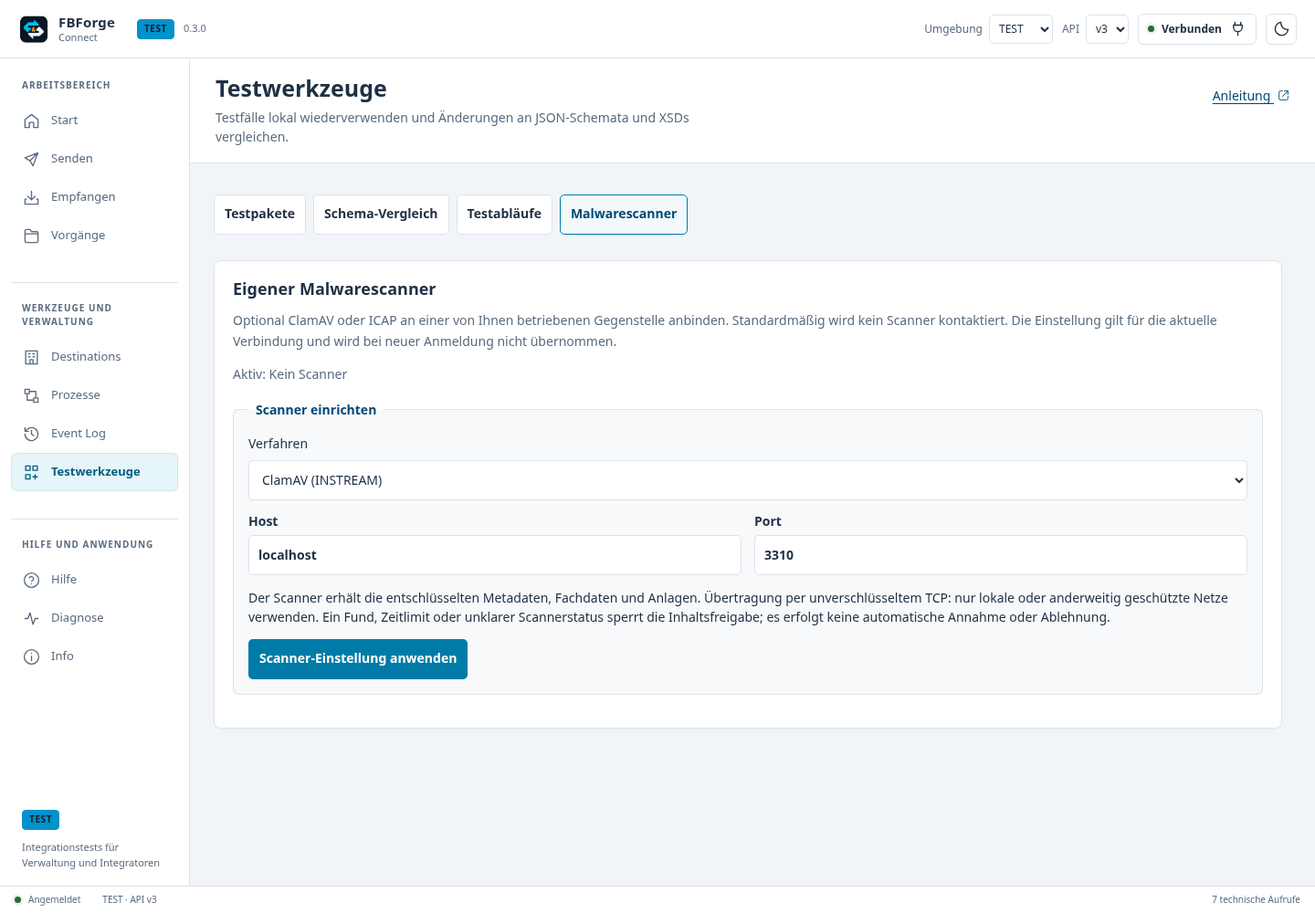
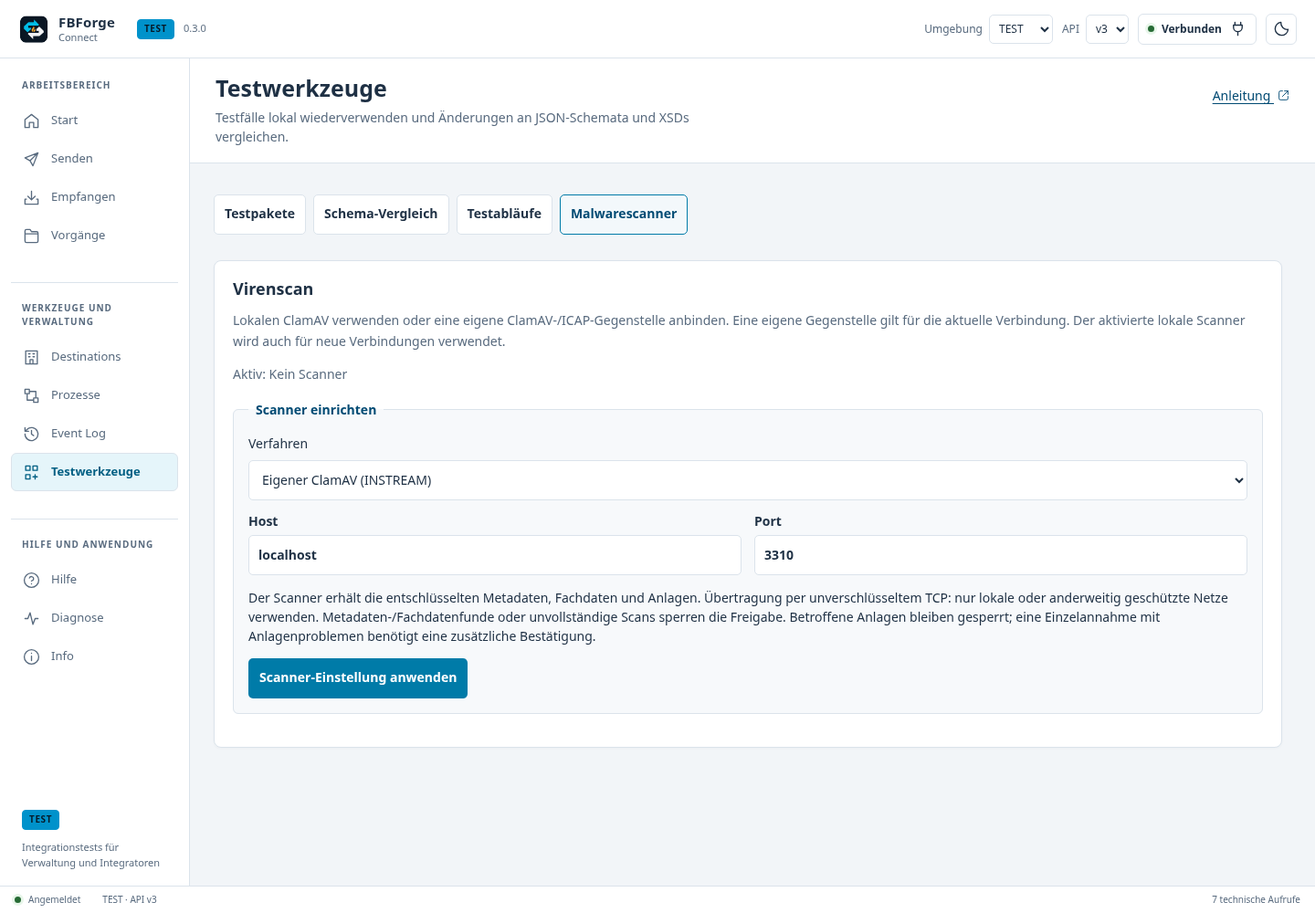
docs(scanner): document setup, scan decisions and offline distribution

diff --git a/docs/guide/topics.js b/docs/guide/topics.js
@@ -547,7 +547,12 @@ const additions = {
   tools: [
     'Unter „Testabläufe“ ein Testpaket aus der Sammlung oder eine Datei öffnen. Ein Testfall bleibt ein einzelner Baustein; der Ablauf kombiniert Versand, Eingang, Inhaltsvergleich, erwartete Empfangsbestätigung und gegebenenfalls Antwort. Einen neuen Durchlauf starten, die Aktionen einzeln in den Arbeitsbereichen bestätigen und anschließend die passende lokale Nachricht auswählen. Prüfschritte vergleichen Fachdaten und Anlagen. JSON-Objektreihenfolge ist unerheblich; XML wird nach sicherer Syntaxprüfung exakt verglichen. Ein falscher Inhalt oder ein ungewisser Versand bleibt offen.',
     'Ablaufdefinition und Durchlaufergebnis können exportiert werden. Definitionen enthalten das unverschlüsselte Testpaket; Ergebnisse enthalten Nachrichtenkennungen und Prüfzeitpunkte. Verwenden Sie fiktive Daten und prüfen Sie Dateien vor dem Teilen. Der Durchlauf bleibt beim Wechsel des Werkzeugs oder Profils innerhalb derselben Umgebung geöffnet. Ein neuer Durchlauf setzt die Ergebnisse zurück.',
-    'Unter „Malwarescanner“ optional einen eigenen ClamAV-INSTREAM- oder ICAP-RESPMOD-Dienst einrichten. Vor Aktivierung zeigt eine native Bestätigung die Zieladresse und die Übertragung entschlüsselter Inhalte. Diese Anbindung verwendet unverschlüsseltes TCP und benötigt eine lokale Gegenstelle oder ein anderweitig geschütztes Netz. Die Einstellung gilt nur für die Verbindung. Beim Empfang werden Metadaten, Fachdaten und Anlagen geprüft. Nur explizite Freigaben sind erfolgreich; Fund, Zeitlimit oder unklare Antworten sperren die Inhaltsfreigabe. Es erfolgt keine automatische Annahme oder Ablehnung. FBForge betreibt dafür keinen Dienst.',
+    'Unter „Malwarescanner“ zwischen ausgeschaltet, lokalem ClamAV und eigener ClamAV-/ICAP-Gegenstelle wählen. Im Windows-Setup kann die lokale Komponente mit offiziellen datierten Signaturen ausgewählt werden; sie wird beim ersten App-Start ohne Internet übernommen. Der aktivierte lokale Standard gilt auch für neue Verbindungen. Er läuft nur während der Sitzung auf diesem Rechner, nicht als Windows-Dienst.',
+    'Für die Nachinstallation „Scanner online einrichten“ oder „Lokales Scanner-Paket importieren“ wählen. Das Release enthält eine ClamAV-Distribution mit Komponenten-ZIP, Quellen und Lizenzhinweisen. Die Distribution zunächst entpacken und das innere Komponenten-ZIP auswählen. Anschließend „Lokaler ClamAV“ auswählen und anwenden. Downloads zeigen Fortschritt und sind abbrechbar. Engine-Dateien und Virendatenbanken werden vor Übernahme geprüft.',
+    'Engine-Version, Bereitschaft, Signaturversion und Signaturdatum bleiben sichtbar. Ein Bestand ab sieben Tagen erhält einen Altershinweis. Ohne erneutes Update oder Offline-Import altert der Bestand weiter. „Signaturen aktualisieren“ lädt offizielle Datenbanken mit FreshClam nach Bestätigung. Automatische Updates beim App-Start sind separat abschaltbar und erfolgen höchstens einmal täglich. FIT-Connect-Inhalte werden dafür nicht übertragen.',
+    'Offline-Import: main.cvd, daily.cvd und bytecode.cvd sowie die jeweils zur Datenbankversion gehörende .cvd.sign-Datei gemeinsam auswählen. Die sechs Dateien stammen aus einem frisch erzeugten geprüften Komponentenpaket oder einer eigenen offiziellen FreshClam-Aktualisierung. Ungültige Signaturen und ältere Datenbanken ersetzen keinen neueren gültigen Bestand. Das App-Setup und der Scanner-Import benötigen dafür keinen zusätzlichen Netzaufruf.',
+    'Eigene ClamAV-INSTREAM-/ICAP-RESPMOD-Dienste gelten nur für die Verbindung. Eine native Bestätigung zeigt Ziel und Übertragung entschlüsselter Inhalte. Unverschlüsseltes TCP benötigt eine lokale oder anderweitig geschützte Gegenstelle. Der Scanner prüft Metadaten, Fachdaten und Anlagen beim Empfang und vor Versand oder Antwort. Metadaten-/Fachdatenfunde, Zeitlimits und unvollständige Scans bleiben blockierend. Es erfolgt keine automatische Annahme oder Ablehnung und keine Übertragung an einen FBForge-Scanner.',
+    'Bei einem Anlagenfund bleiben geprüfte übrige Inhalte lesbar. Die betroffene Anlage erscheint mit Name und Kennung, jedoch ohne freigegebene Bytes. Ein vollständiger Originaldownload und die Sammelannahme sind gesperrt. Eine Einzelannahme mit Anlagenproblemen benötigt eine zusätzliche native Bestätigung; sie bestätigt die gesamte Nachricht und meldet die betroffenen Kennungen als Problem an FIT-Connect. Benötigte Anlagen gegebenenfalls erneut anfordern. Es gibt kein Sanitizing und keine zusätzliche dauerhafte Quarantäne. Ein unauffälliger Scan ist keine Sicherheitsgarantie.',
   ],
 };
 for (const topic of helpTopics) topic.steps.push(...(additions[topic.id] || []));
@@ -567,8 +572,12 @@ helpTopics
     },
     {
       image: 'malware-scanner',
+      caption: 'Lokalen ClamAV mit sichtbarem Signaturstand oder eine eigene Scanner-Gegenstelle auswählen.',
+    },
+    {
+      image: 'local-scanner',
       caption:
-        'Eine eigene Scanner-Gegenstelle einrichten; ohne bewusste Aktivierung wird nichts übertragen.',
+        'Lokale Komponente mit geprüftem Signaturbestand, bewussten Updates und Offline-Import verwalten.',
     },
   );
 helpTopics.find((topic) => topic.id === 'destinations').illustrations = [

diff --git a/tests/scanner-release.test.js b/tests/scanner-release.test.js
@@ -42,6 +42,13 @@ for file in package:
     rejected(dict(parts,**{name:zip_bytes(bad)}))
 rejected(dict(parts,**{name:zip_bytes(dict(package, **{'engine/clamd.exe':b'wrong'}))}))
 rejected(dict(parts,**{'../escape':b'wrong'}))
+u = importlib.util.spec_from_file_location('upstream', 'scripts/scanner/check-upstream.py')
+upstream = importlib.util.module_from_spec(u); u.loader.exec_module(upstream)
+upstream.check('1.5.4',dict(tag_name='clamav-1.5.4',draft=False,prerelease=False))
+for release in [dict(tag_name='clamav-1.5.5'),dict(tag_name='clamav-1.5.4',prerelease=True),dict(tag_name='unexpected')]:
+    try: upstream.check('1.5.4',release)
+    except RuntimeError: pass
+    else: raise AssertionError('new or invalid upstream ignored')
 print('scanner release checks passed')
 `,
     ],

diff --git a/scripts/scanner/check-upstream.py b/scripts/scanner/check-upstream.py
@@ -1,0 +1,23 @@
+"""Read-only reminder: a new official ClamAV release requires a reviewed app change."""
+import json
+from pathlib import Path
+import re
+import subprocess
+
+
+def check(pinned, release):
+    tag = release.get('tag_name', '')
+    if (release.get('draft') or release.get('prerelease')
+            or not re.fullmatch(r'clamav-[0-9]+[.][0-9]+[.][0-9]+', tag)):
+        raise RuntimeError('scanner_upstream_response_invalid')
+    latest = tag.removeprefix('clamav-')
+    if tuple(map(int, latest.split('.'))) > tuple(map(int, pinned.split('.'))):
+        raise RuntimeError(f'ClamAV {latest} is available; review signatures, source, hashes and acceptance before updating {pinned}')
+
+
+if __name__ == '__main__':
+    manifest = json.loads((Path(__file__).resolve().parents[2] / 'desktop/scanner-component.json').read_text())
+    response = subprocess.run(['gh', 'api', 'repos/Cisco-Talos/clamav/releases/latest'],
+                              capture_output=True, text=True, check=True)
+    check(manifest['version'], json.loads(response.stdout))
+    print('Pinned ClamAV version is current. No component was downloaded or published.')

diff --git a/BUILDING.md b/BUILDING.md
@@ -8,6 +8,7 @@ Das Desktop-Paket wird auf Windows x64 gebaut. Frontend, Java-Engine und isolier
 - Ein vollständiges JDK 25 mit `javac` und `jlink`. `JAVA_HOME` muss auf dessen Installationsverzeichnis zeigen.
 - Python 3.10 oder neuer für die lokalen Prüfungen. Unter Windows muss `python`, unter Linux und macOS `python3` im `PATH` verfügbar sein.
 - Rust über rustup. Die benötigte Version steht in `desktop/rust-toolchain.toml`.
+- Für den Scanner-Paketbau: GnuPG (unter Windows beispielsweise aus Git for Windows); offizielle ClamAV-Downloads und FreshClam müssen erreichbar sein.
 - Für Windows: Visual Studio Build Tools mit „Desktopentwicklung mit C++“, MSVC-x64-Werkzeugen und Windows SDK. Außerdem Microsoft Edge WebView2 Runtime. Einzelheiten stehen in den [Tauri-Voraussetzungen](https://v2.tauri.app/start/prerequisites/).
 
 Maven wird durch den mitgelieferten Wrapper geladen. Für den ersten Build ist Internet erforderlich. Zugangsdaten zu FIT-Connect oder ein Signaturzertifikat sind zum Bauen und für die lokalen Tests nicht erforderlich.
@@ -47,7 +48,10 @@ Der Befehl startet Frontend und Desktop-Anwendung gemeinsam. Frontend-Änderunge
 
 ### Installer bauen
 
+Zuerst die optionale Scanner-Komponente einschließlich geprüfter Datenbanken und passendem Quellcode bereitstellen. Beide Installer enthalten diese abwählbare Komponente; die Unterscheidung bei WebView2 bleibt davon unabhängig.
+
 ```powershell
+npm run stage:scanner
 npm run desktop:build -- -- --locked
 ```
 
@@ -152,3 +156,39 @@ Installation, Upgrade und NVDA werden im Workflow `Windows release validation` g
 | Windows blockiert `build-script-build.exe` | Den Schutzverlauf prüfen. Auf verwalteten Geräten eine gezielte Freigabe mit dem Administrator abstimmen.       |
 
 Bei Fehlern nicht mit späteren Buildschritten fortfahren. Keine Zugangsdaten oder privaten Schlüssel in Fehlerberichte übernehmen.
+
+## Lokaler Scanner und echte Scan-Abnahme
+
+`stage:scanner` prüft ClamAV 1.5.4 anhand des festgelegten Talos-Schlüssels und der
+Hashes in `desktop/scanner-component.json`. GnuPG aus einer anderen Installation
+kann mit `npm run stage:scanner -- --gpg C:/Pfad/gpg.exe` angegeben werden.
+Downloads werden unter `.cache/scanner/` zwischengespeichert und vor Verwendung
+erneut geprüft. Offizielle Datenbanken werden höchstens 24 Stunden aus dem zuvor
+geprüften Build-Cache übernommen. Keine Zugangsdaten sind erforderlich.
+
+Ergebnis: `desktop/resources/scanner/component.zip` für das Setup und
+`desktop/target/scanner-dist/` für die Weiterverteilung, einschließlich passendem
+Quellarchiv, offizieller Quellsignatur, Prüfschlüssel und Lizenzhinweisen.
+Diese Dateien gehören nicht ins Git. Ein Release-Build ohne Komponente bricht ab.
+Im Entwicklungsmodus ist sie optional; der echte lokale Scanner benötigt Windows.
+
+Eine vorbereitete Offline-Datenbank kann mit `--database-directory` übernommen
+werden: `main.cvd`, `daily.cvd`, `bytecode.cvd` und die drei zur Version gehörenden
+`.cvd.sign`-Dateien. `sigtool --verify` prüft die offiziellen Signaturen. Unter
+Linux zusätzlich `--sigtool /pfad/zu/sigtool` angeben. Für vollständig abgeschottete
+Buildrechner den bereits gefüllten Downloadcache mitnehmen und `--cache` angeben.
+
+Die Windows-Validierung führt `scanner-runtime` gegen das echte Paket aus:
+Offline-Installation, eigener Loopback-Prozess, saubere Datei, im Speicher erzeugte
+EICAR-Testdaten und Prozessende. Der Test verändert keine bestehende Installation.
+`npm run test:scanner -- --engine-directory <Verzeichnis-mit-clamd> --database-directory <Datenbanken> --certificates-directory <CVD-Zertifikate>`
+prüft ebenfalls die echte Engine mit sauberen Text-/PDF-Dateien und EICAR.
+Mit `--java-acceptance` wird zusätzlich der tatsächliche Host über INSTREAM und
+einen lokalen, an diese Engine angeschlossenen ICAP-Testdienst geprüft. Das ist
+keine Zertifizierung fremder ICAP-Produkte. EICAR ist ein ungefährlicher
+standardisierter Erkennungstest, keine allgemeine Sicherheitsgarantie.
+
+Der rein lesende Workflow `Check ClamAV upstream release` meldet wöchentlich oder
+bei manuellem Start eine neuere offizielle Engine-Version. Er installiert oder
+veröffentlicht nichts. Ein Engine-Update erfordert neue geprüfte Hashes, Quellen
+und die erneute Komponenten-Abnahme; Signaturupdates ersetzen kein Engine-Update.

diff --git a/ARCHITECTURE.md b/ARCHITECTURE.md
@@ -78,4 +78,8 @@ Die Testabläufe kombinieren vorhandene Testfälle und prüfen lokale Nachrichte
 
 Profil-Arbeitsdaten (Destination-Vorlagen, Merkliste und lokale Konfigurationshistorie) liegen getrennt von Credentials und Vorgängen in Windows-DPAPI-Dateien. Zusätzliche Entropie bindet Profil, Umgebung und API. Nur native Engine-Ergebnisse erzeugen Historieneinträge. Vor dem Schreiben wird ein ungewisser Zustand dauerhaft hinterlegt; ein Fehler der abschließenden Speicherung darf einen tatsächlichen Servererfolg nicht als fehlgeschlagenen Versand umdeuten. Profilentfernung löscht auch diese Arbeitsdaten. Profil-Backups enthalten sie nicht.
 
-Der optionale Scanner ist im gemeinsamen Java-Host hinter beiden SDK-Adaptern angesiedelt und prüft nach Kryptografie, vor Veröffentlichung von Inhalten oder Quittierungsbeweisen. Jeder Nachrichtenscan hat ein Gesamtzeitlimit einschließlich DNS, Verbindungsaufbau, Schreiben und Antwort. Nur ClamAV `stream: OK` oder ICAP 204 ohne Infektionsmeldung sind sauber. Scanner-Adressen werden nativ bestätigt; die Konfiguration gilt nur für die Sitzung. Kein Callback-Dienst oder FBForge-Relay ist Bestandteil der Anwendung.
+Der optionale Scanner ist im gemeinsamen Java-Host hinter beiden SDK-Adaptern angesiedelt. Er prüft nach Kryptografie und vor Inhaltsfreigabe; ausgehende unveränderliche Vorbereitungen werden vor dem tatsächlichen SDK-Schreibaufruf erneut geprüft. Jeder Scan hat ein Gesamtzeitlimit einschließlich DNS, Verbindung, Schreiben und Antwort. Nur ClamAV `stream: OK` oder ICAP 204 ohne Infektionsmeldung gelten als unauffällig. Eigene Gegenstellen werden nativ bestätigt und gelten für die Verbindung. Kein Callback-Dienst oder FBForge-Relay.
+
+Die native Schicht verwaltet optional einen lokalen ClamAV als Benutzerprozess. Festes Manifest, offizieller Talos-Schlüssel, Archiv-/Dateihashes und signierte CVD-Dateien bilden die Vertrauensgrenze. ZIP-Importe sind begrenzt; Engine und Datenbanken werden vor atomarer Übernahme geprüft. Windows-Jobobjekte beenden ausschließlich eigene Prozesse auch bei erzwungenem App-Ende; Bereitschaft erfordert einen dem Prozess zugeordneten Loopback-Port. Der Renderer liefert weder Programmpfade noch Download-URLs. Updates der Signaturen sind gesondert zustimmungspflichtig. Komponente und Einstellungen liegen unter dem lokalen App-Datenverzeichnis, unabhängig von FIT-Connect-Profilen.
+
+Anlagenfunde entfernen ausschließlich betroffene Bytes aus dem freigegebenen Snapshot. `scan-report` speichert begrenzte Kennungen und Namen im geschützten lokalen Vorgang. Ein vollständiger Originalexport ist dann nativ gesperrt. Hostseitig gebundene Problem-IDs bleiben mit den ursprünglichen Authentifizierungstags verbunden und werden im signierten Accept als `problems` gemeldet. Dafür ist eine zusätzliche native Bestätigung nötig; Sammelannahme bleibt gesperrt. Metadaten-/Fachdatenfunde und unvollständige Scans geben keinen Annahmenachweis frei.

diff --git a/RELEASING.md b/RELEASING.md
@@ -149,3 +149,26 @@ bleibt für Versionen ohne eingebauten Updater erforderlich. Die vorhandene Prü
 von Neuinstallation und Upgrade ersetzt die Bedienung des Updaters nicht.
 
 Das Schlüssel-Skript kann auch aus einem WSL-UNC-Checkout in Windows-PowerShell aufgerufen werden: `./scripts/setup-update-signing.ps1` ohne Projektpfad als Argument. Es startet die exakt gepinnte Windows-Tauri-CLI aus einem lokalen temporären Verzeichnis, damit CMD weder am UNC-Arbeitsverzeichnis noch an Linux-`node_modules` scheitert. `-KeyPath` bezeichnet ausschließlich eine neue lokale Datei außerhalb des Repositorys; standardmäßig liegt sie unter `%LOCALAPPDATA%\FBForge\signing\connect-updater.key`. Vorhandene Schlüssel werden nicht überschrieben.
+
+## Optionale Scanner-Komponente ab 0.3.0
+
+Windows-Validierung und Signierlauf führen `stage:scanner` aus. Das Setup bietet
+die Komponente ausdrücklich abwählbar an; stille Installationen können
+`/SCANNER=0` oder `/SCANNER=1` vor dem abschließenden `/D=...` verwenden. Ein Upgrade
+erhält die Auswahl. Mitgelieferte Engine-Dateien werden nicht neu signiert oder
+verändert; ihre offiziellen Hashes bleiben Bestandteil der App-Vertrauensgrenze.
+
+Der Signierlauf bewahrt unter `windows-scanner-component` die genau zu diesem
+Build gehörende Distribution mit Engine, datierten Datenbanken, zugehörigem
+Quellarchiv, Originalsignatur und allen Lizenzhinweisen auf. `attach-candidate.py`
+prüft Herkunft und Dateien und hängt diese vollständige Distribution zusätzlich
+an den unveröffentlichten Entwurf. Das Archiv enthält das separat importierbare
+Komponenten-ZIP. Quellen und Hinweise müssen zusammen mit der Binärkomponente
+öffentlich verfügbar bleiben. Nicht nur das innere Komponenten-ZIP veröffentlichen.
+
+Vor Freigabe Setup mit und ohne Komponente, Erhalt der Auswahl beim Upgrade,
+Nachinstallation, Signaturimport/-update und Prozessende prüfen. EICAR nur lokal
+oder in einer ausdrücklich eigenen TEST-Konstellation verwenden; keine Funde an
+fremde Empfänger oder nach STAGE/PROD schicken. Einzelannahme mit Anlagenproblemen
+bestätigt die Nachricht insgesamt. Problembezüge in den signierten Event Logs
+prüfen; es gibt keinen separaten serverseitigen Anlagenannahmestatus.

diff --git a/ROADMAP.md b/ROADMAP.md
@@ -63,7 +63,7 @@ Freigabe erforderlich; dieser Roadmap-Eintrag aktiviert keine Updates.
 - Destination-Konfigurationsvorlagen importieren, exportieren, geschützt speichern und vor Anwendung mit aktuellen Serverwerten vergleichen. Konfigurationsänderungen mit Vorher-/Nachher-Werten profil-, umgebungs- und API-gebunden mit Windows-DPAPI protokollieren. Keine vollständige serverseitige Änderungshistorie behaupten.
 - Häufige und zuletzt geladene Empfänger-Destinations im geschützten Profil wiederfinden; deren aktuelles Leistungsangebot weiterhin laden.
 - Testabläufe ergänzen vorhandene Testfälle. Versand, Eingang, Fachdaten-/Anlagenvergleich, erwartete Empfangsbestätigung und Antworten anhand lokaler Nachrichtenergebnisse prüfen; Durchläufe neu starten und Definition/Ergebnis exportieren. Schreibaktionen bleiben einzeln bestätigt.
-- Eigene ClamAV-/ICAP-Gegenstelle optional und nur nach nativer Bestätigung für eine Verbindung einrichten. Metadaten, Fachdaten und Anlagen nach Entschlüsselung scannen; Fund und unklare/fehlende Freigaben blockieren. Kein FBForge-Relay und keine automatische Meldung an einen externen Dienst.
+- Optionaler mitgelieferter lokaler ClamAV mit geprüfter Offline-Komponente und signierten Datenbanken; eigene ClamAV-/ICAP-Gegenstellen bleiben möglich. Vor Empfangsfreigabe und Versand prüfen. Anlagenfunde einzeln sperren, manuelle Einzelannahme mit signierten Problembezügen ermöglichen. Unvollständige Scans blockieren. Kein FBForge-Relay, Sanitizing oder zusätzliche Quarantäne.
 - Regressionen über API v2/v3, Fehlereingaben, Kontextwechsel, Speicherfehler, Zeitlimits und Wiederholungen; vollständige Java-, native und UI-Prüfungen sowie aktualisierte Anleitung und Versionshinweise.
 
 Nicht enthalten: Callback-/Webhook-Werkzeug, neue Anlage-ID-Funktionen, große XSD-Bibliothek und nicht exportierbare Schlüssel/HSM. Netzwerk-Vorabprüfung (DNS, TLS, Proxy, Firewall sowie V-PKI-OCSP/CRL) und Routing-Debugger gehören zu **FBForge Inspect**.

diff --git a/RELEASE_NOTES.md b/RELEASE_NOTES.md
@@ -7,7 +7,8 @@
 - Zertifikatswarnungen mit 30/90 Tagen Vorlauf. Empfänger-Favoriten und zuletzt verwendete Destinations geschützt im Profil speichern.
 - Destination-Vorlagen mit Import, Export und Feldvergleich. Profil-, umgebungs- und API-gebundene Windows-DPAPI-Historie für Konfigurationsänderungen einschließlich ungewissem Ausgang.
 - Wiederholbare Testabläufe ergänzen Testfälle: Versand, Eingang, Inhalts-/Anlagenvergleich, erwartete Bestätigung und Antwort anhand lokaler Nachrichten prüfen; Definition und Durchlaufergebnis exportieren.
-- Optionale eigene ClamAV-/ICAP-Gegenstelle nach nativer Bestätigung. Kein gehosteter FBForge-Endpunkt. Scanfund, Zeitlimit oder unklare Freigabe bleiben blockierend.
+- Optionaler lokaler ClamAV 1.5.4 im Windows-Setup, offline nachinstallierbares Komponentenpaket und bewusste Online-Einrichtung. Geprüfte offizielle Engine-Dateien, signierte Virendatenbanken, sichtbarer Signaturstand und zustimmungspflichtige FreshClam-Updates. Eigene ClamAV-/ICAP-Gegenstellen bleiben auswählbar.
+- Metadaten, Fachdaten und Anlagen beim Empfang sowie vor Versand und Antwort scannen. Betroffene Anlagen bleiben gesperrt; geprüfte übrige Inhalte bleiben lesbar. Einzelannahmen mit Anlagenproblemen benötigen zusätzliche Bestätigung und melden die Kennungen im signierten Accept. Sammelannahme und vollständiger Originalexport bleiben dafür gesperrt. Unvollständige Scans bleiben blockierend. Kein gehosteter Dienst, Sanitizing oder zusätzliche Quarantäne.
 
 - Integrierte Updates für Windows x64: automatische, abschaltbare Suche und manuelle Suche unter „Info“, Hinweis auf neue stabile GitHub-Releases, Downloadfortschritt und abbrechbarer Download.
 - Installer erst nach erfolgreicher Paket- und Versionssignaturprüfung sowie nativer Bestätigung starten. Laufende Aktionen und offene Exporte blockieren die Installation; gespeicherte Schlüssel werden vor dem Beenden gesichert.

diff --git a/SECURITY.md b/SECURITY.md
@@ -22,7 +22,8 @@ Eine Abmeldung widerruft keine bereits ausgestellten Tokens.
 
 ## Schutzgrenzen
 
-- Kein mitgelieferter Malwaredienst. Ab 0.3.0 können eigene ClamAV-/ICAP-Gegenstellen nach nativer Bestätigung angebunden werden. Sie erhalten entschlüsselte Inhalte über unverschlüsseltes TCP und benötigen daher ein vertrauenswürdiges lokales oder anderweitig geschütztes Netz. Fund, Zeitlimit und unklare Freigabe blockieren die Inhaltsfreigabe. Technische und fachliche Prüfung bleiben getrennt; Sammelannahme ohne Scan erfordert eine ausdrückliche Freigabe.
+- Ab 0.3.0 optional lokaler ClamAV als geprüfte Windows-Komponente oder eine eigene ClamAV-/ICAP-Gegenstelle. Der mitgelieferte Scanner läuft ausschließlich auf Loopback als Benutzerprozess und endet mit der App. Engine-Dateien sind fest gepinnt; offizielle CVD-Datenbanken benötigen gültige Signaturen. Downloads und automatische Signaturupdates benötigen Zustimmung; Offline-Bestände altern sichtbar.
+- Eigene Scanner erhalten entschlüsselte Inhalte über unverschlüsseltes TCP und benötigen ein vertrauenswürdiges lokales oder anderweitig geschütztes Netz. Metadaten-/Fachdatenfunde, Zeitlimits und unvollständige Scans blockieren die Freigabe. Anlagenfunde sperren die betroffenen Dateien; andere geprüfte Inhalte bleiben lesbar. Die Einzelannahme bestätigt die gesamte Nachricht mit nativen Problemangaben und zusätzlicher Bestätigung. Sammelannahme und vollständiger Export bleiben für solche Nachrichten gesperrt. Kein Sanitizing und keine zusätzliche dauerhafte Quarantäne. Ein unauffälliger Scan ist keine Sicherheitsgarantie.
 - Keine allgemeinen HTTP-, Shell- oder Dateisystemrechte im Renderer. Schreibaktionen
   benötigen eine Bestätigung; ungewisse Übertragungen werden nicht automatisch wiederholt.
 - Umgebungswechsel beendet Sitzungen und erfordert eine neue Anmeldung. Gespeicherte

diff --git a/docs/plans/local-scanner-030.md b/docs/plans/local-scanner-030.md
@@ -107,3 +107,26 @@ vorbereiteten unveränderlichen Inhalt binden. Auch Antworten berücksichtigen.
 Nach Abschluss: vollständige Regression, echter Windows-Installer und TEST-Lauf,
 Dokumentation/Architektur/Security/Release Notes sowie Hilfe, Screenshots und
 Website-Nginx-/Deploymentprüfungen aktualisieren. Erst dann Integration in 0.3.0.
+
+## Umsetzungsstand und verbleibende Freigaben
+
+Implementiert auf `feature/local-scanner-0.3.0`: native Komponentenverwaltung,
+vier Scanner-Modi, optionale Setup-Komponente, offizielle Engine-/CVD-Prüfung,
+Offline-Import und bewusste FreshClam-Updates, Prozessbindung an die App,
+Anlagenberichte, signierte Accept-Probleme und ausgehende Scan-Grenze.
+
+Belegt durch lokale Abnahme: echte ClamAV-1.5.4-Engine mit offizieller
+Signaturdatenbank, saubere Text-/PDF-Dateien und EICAR; tatsächlicher Java-Host
+über INSTREAM und einen an die echte Engine angeschlossenen lokalen ICAP-Peer.
+Browser prüft gesperrte Anlage, verbleibende Inhalte, kein Vollarchiv,
+Einzelannahme, Abbruch und keine automatische Sammelannahme.
+Die vollständigen automatischen Prüfungen und die echte Windows-Installation
+werden vor Integration ausgewertet. Ein Protokoll-Peer ist keine Abnahme eines
+konkreten externen ICAP-Produkts.
+
+Freigabegates: Windows-Paketinstallation mit und ohne Komponente einschließlich
+Upgrade/Prozessende; eigener realer TEST-Nachrichtenfluss mit aktiviertem Scanner;
+abschließend signierte Installation und Update nach dem Main-Merge im gesonderten
+Release-Prozess. Kein automatisches Veröffentlichen und kein PR. Testzahlen und
+Lauf-IDs gehören zum Abnahmebericht, nicht als dauerhafte Erfolgsgarantie in die
+Produktbeschreibung.

diff --git a/README.md b/README.md
@@ -22,7 +22,7 @@ und werden zusätzlich bestätigt. Verwenden Sie für Tests fiktive Daten.
 2. Umgebung wählen und mit passenden Zugangsdaten verbinden.
 3. Einreichungen senden oder abrufen und prüfen.
 
-Auf `release/0.3.0` werden integrierte Updates, wiederholbare Testabläufe, Empfang mit Altersübersicht, Destination-Vorlagen und geschützter Konfigurationshistorie sowie optionale eigene ClamAV-/ICAP-Scanner vorbereitet. Diese Funktionen sind noch nicht veröffentlicht.
+Für 0.3.0 werden integrierte Updates, wiederholbare Testabläufe, Empfang mit Altersübersicht, Destination-Vorlagen und geschützte Konfigurationshistorie, ein optional mitgelieferter lokaler ClamAV sowie eigene ClamAV-/ICAP-Scanner vorbereitet. Diese Funktionen sind noch nicht veröffentlicht.
 Details stehen in der [Roadmap](ROADMAP.md).
 
 [Anleitung mit Bildern](https://fbforge.de/connect/hilfe/0.3/start) ·

diff --git a/THIRD_PARTY_NOTICES.md b/THIRD_PARTY_NOTICES.md
@@ -22,3 +22,13 @@ Für Apache-2.0 liegt der vollständige Lizenztext unter `licenses/Apache-2.0.tx
 
 Die Lizenz- und Copyright-Texte der neuen nativen Update-Komponenten einschließlich
 ring sind in `licenses/native-updates.txt` und in der Infoansicht enthalten.
+
+## Optionale ClamAV-Komponente (ab 0.3.0)
+
+Das Windows-Setup kann unveränderte offizielle ClamAV-1.5.4-Dateien einschließlich
+Bibliotheken und datierter Virendatenbanken enthalten. ClamAV steht unter GPL-2.0;
+die mitgelieferten Bibliotheken haben eigene Hinweise. Die Originaldateien
+`COPYING.txt` und `COPYING/` begleiten die Komponente. Der Release enthält außerdem
+die vollständige Scanner-Distribution mit passendem ClamAV-Quellarchiv,
+Originalsignatur, Buildverweisen und sämtlichen mitgelieferten Lizenzhinweisen.
+Die EUPL-Lizenz der FBForge-Connect-Anwendung ersetzt diese Lizenzen nicht.
